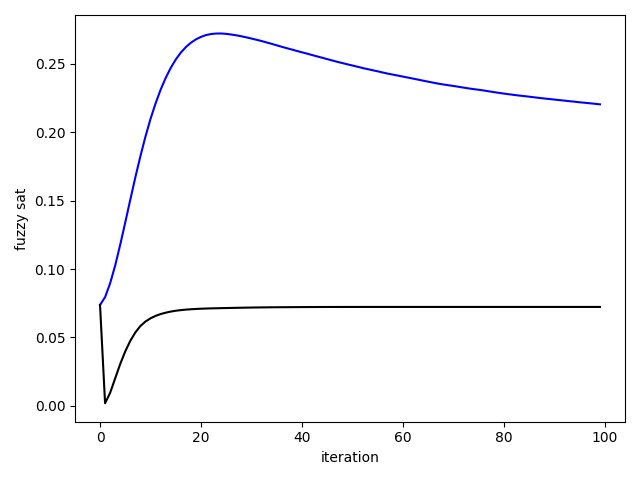
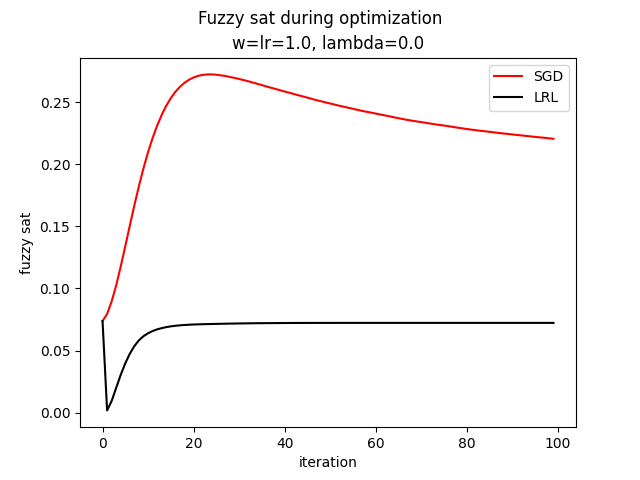
Added calculation of the norm and associated plots

diff --git a/results_evaluation_fuzzy.py b/results_evaluation_fuzzy.py
@@ -14,6 +14,8 @@ with open('results', 'rb') as f:
 
 ltn_results = [None] * n_steps
 lrl_results = [None] * n_steps
+ltn_norms = [None] * n_steps
+lrl_norms = [None] * n_steps
 for formula_file, results in sat_results.items():
     print(formula_file)
     with open(formula_file, 'r') as f:
@@ -24,63 +26,92 @@ for formula_file, results in sat_results.items():
     predicates = create_predicates(n)
     f = create_formula(predicates, clauses)
 
+    initial_truth_values = results[0]['ltn']
+
     for r in results:
         if ltn_results[r['i']] is None:
             ltn_results[r['i']] = []
         if lrl_results[r['i']] is None:
             lrl_results[r['i']] = []
+        if ltn_norms[r['i']] is None:
+            ltn_norms[r['i']] = []
+        if lrl_norms[r['i']] is None:
+            lrl_norms[r['i']] = []
 
         ltn_results[r['i']].append(torch.mean(f.satisfaction(r['ltn'])).tolist())
         lrl_results[r['i']].append(torch.mean(f.satisfaction(r['lrl'])).tolist())
 
+        ltn_norms[r['i']].append(torch.linalg.vector_norm(r['ltn'] - initial_truth_values, ord=1).tolist())
+        lrl_norms[r['i']].append(torch.linalg.vector_norm(r['lrl'] - initial_truth_values, ord=1).tolist())
+
+
+with open('results_ltn_', 'wb') as f:
+    pickle.dump(ltn_results, f)
+
+with open('norms_ltn_', 'wb') as f:
+    pickle.dump(ltn_norms, f)
+
+with open('results_lrl_', 'wb') as f:
+    pickle.dump(lrl_results, f)
+
+with open('norms_lrl_', 'wb') as f:
+    pickle.dump(lrl_norms, f)
+
+
 ltn_average_fuzzy_sat = [np.mean(r) for r in ltn_results]
 lrl_average_fuzzy_sat = [np.mean(r) for r in lrl_results]
+ltn_average_norm = [np.mean(r) for r in ltn_norms]
+lrl_average_norm = [np.mean(r) for r in lrl_norms]
 
 with open('results_ltn', 'wb') as f:
     pickle.dump(ltn_average_fuzzy_sat, f)
 
+with open('norms_ltn', 'wb') as f:
+    pickle.dump(ltn_average_norm, f)
+
 with open('results_lrl', 'wb') as f:
     pickle.dump(lrl_average_fuzzy_sat, f)
 
+with open('norms_lrl', 'wb') as f:
+    pickle.dump(lrl_average_norm, f)
+
 x_axis = list(range(n_steps))
-plt.plot(x_axis, ltn_average_fuzzy_sat, 'b', x_axis, lrl_average_fuzzy_sat, 'k')
+plt.plot(x_axis, ltn_average_fuzzy_sat, 'r', label='SGD')
+plt.plot(x_axis, lrl_average_fuzzy_sat, 'k', label='LRL')
+
+plt.suptitle('Fuzzy sat during optimization')
+plt.title('w=lr=1.0, lambda=0.0')
 plt.xlabel('iteration')
 plt.ylabel('fuzzy sat')
-plt.show()
+plt.legend(loc='upper right')
 
-#     for i in range(30):
-#         initial_value = f.forward()
-#         # f.print_table()
-#
-#         if i >= 0:
-#             delta = (1 - initial_value)
-#         else:
-#             delta = (1 - initial_value) * 0.95 #random.uniform(0,1)
-#         print('i=' + str(i) +
-#               ' -> mean:   ' + str(torch.mean(f.sat_sub_formulas()).tolist()) +
-#               '     max:   ' + str(torch.max(f.sat_sub_formulas()).tolist()) +
-#               '    ones:   ' + str(torch.mean(f.count_ones()).tolist()) +
-#               '   zeros:   ' + str(torch.mean(f.count_zeros()).tolist()) +
-#               '     sum:   ' + str((torch.mean(f.count_zeros()) + torch.mean(f.count_ones())).tolist()) +
-#               '     all:   ' + str(torch.mean(f.count_all()).tolist()) +
-#               '     sat:   ' + str(torch.mean(f.count_sat()).tolist()))
-#         if sat_results[i] is None:
-#             sat_results[i] = [torch.mean(f.count_sat()).tolist()]
-#         else:
-#             sat_results[i].append(torch.mean(f.count_sat()).tolist())
-#
-#         if i < 0:
-#             f.backward(delta, randomized=i % 3 == 0)
-#         else:
-#             f.backward(delta) #, randomized=i % 10 == 0)
-#
-#         for predicate in predicates:
-#             if i <= 0:
-#                 predicate.aggregate_deltas('most_clauses')
-#             else:
-#                 predicate.aggregate_deltas('max')
-#
-# # results = []
-# for i, formula in enumerate(sat_results):
-#     print(str(i) + ':   ' + str(np.mean(formula)))
-#     # results.append(np.mean(formula))
+plt.savefig('mean_fuzzy_sat.png')
+plt.close()
+
+
+plt.plot(x_axis, ltn_average_norm, 'r', label='SGD')
+plt.plot(x_axis, lrl_average_norm, 'k', label='LRL')
+
+plt.suptitle('L1 norm during optimization')
+plt.title('w=lr=1.0, lambda=0.0')
+plt.xlabel('iteration')
+plt.ylabel('L1 norm')
+plt.legend(loc='upper left')
+
+plt.savefig('mean_fuzzy_L1.png')
+plt.close()
+
+
+plt.scatter(ltn_average_fuzzy_sat, ltn_average_norm, color='r', label='SGD')
+plt.scatter(lrl_average_fuzzy_sat, lrl_average_norm, color='k', label='LRL')
+
+plt.suptitle('Fuzzy sat vs L1 Norm')
+plt.title('w=lr=1.0, lambda=0.0')
+plt.xlabel('fuzzy sat')
+plt.ylabel('L1 norm')
+plt.legend(loc='upper right')
+
+plt.savefig('scatter_fuzzy.png')
+plt.close()
+
+
